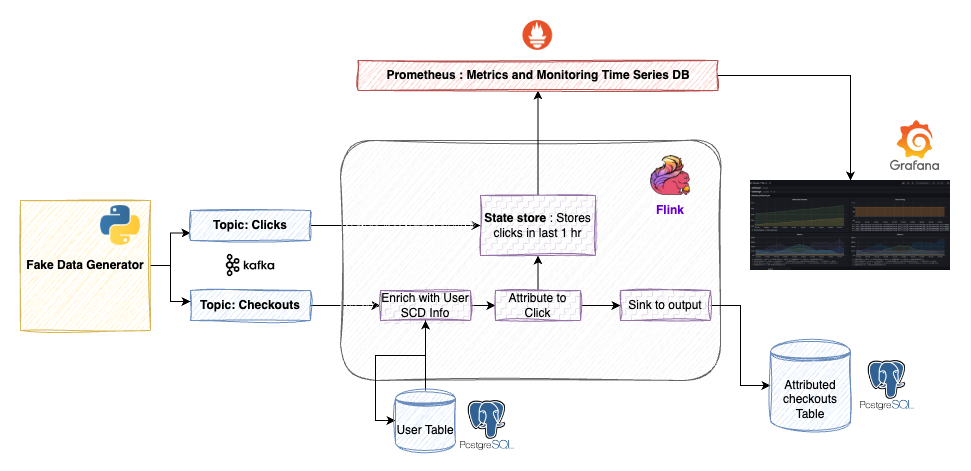
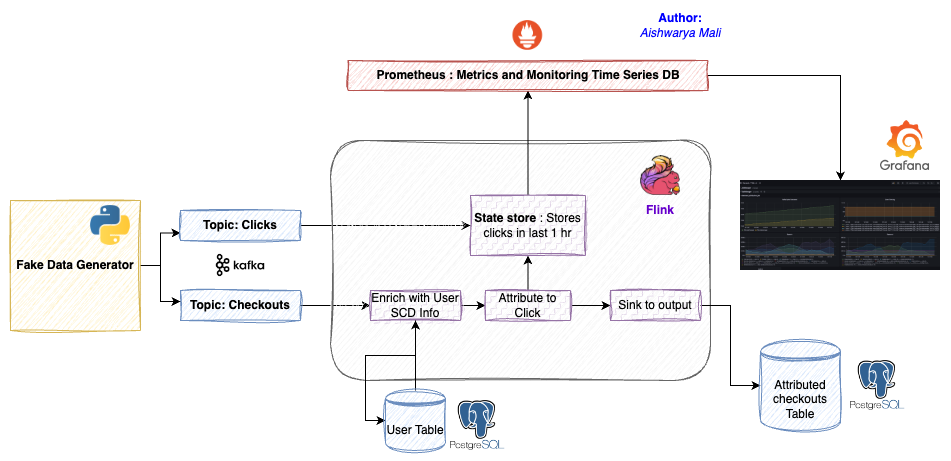
Added Author

Changed region(s): [[0.0, 0.0304, 1.0, 1.0], [0.6709, 0.0304, 0.7624, 0.0911]]

diff --git a/README.md b/README.md
@@ -6,6 +6,13 @@
    * [Check output](#check-output)
    * [References](#references)
 
+   ```
+   ---
+   Author: Aishwarya Mali
+   Date:   09/16/24
+   ---
+   ```
+
 
 ## Project
 
